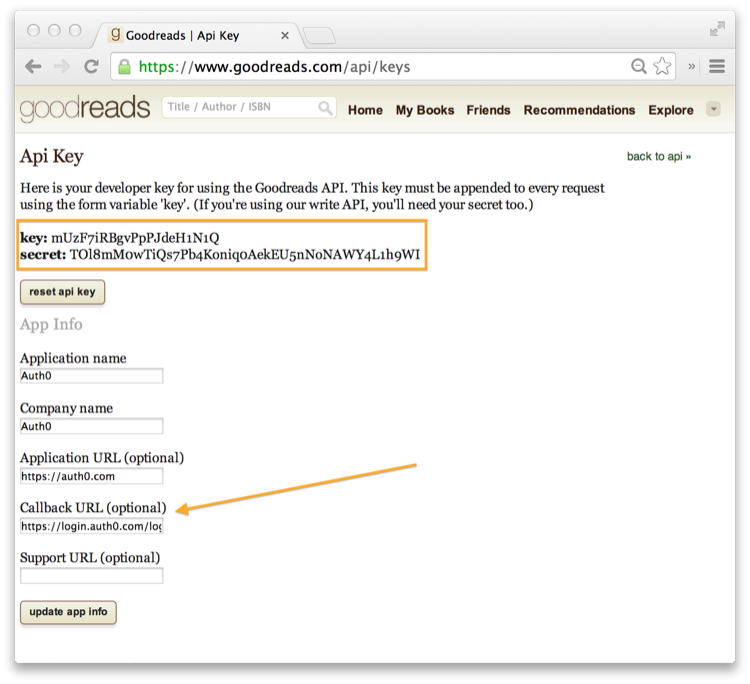
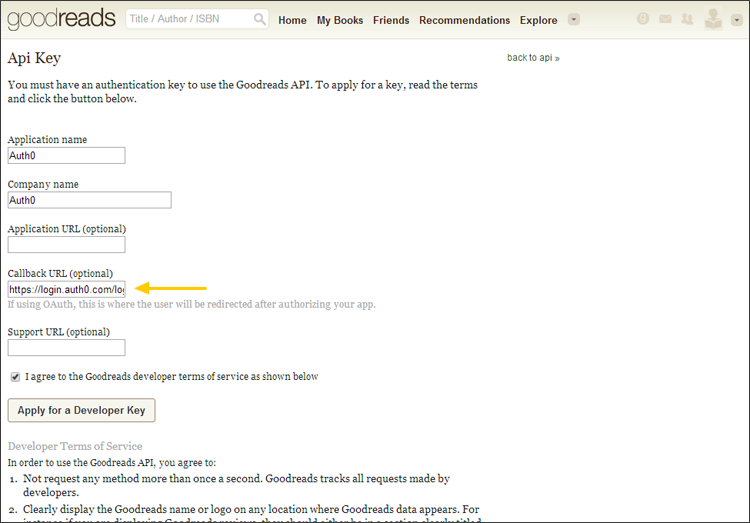
Basic Edits, new screenshot

Changed region(s): [[0.0, 0.0, 1.0, 1.0], [0.828, 0.2141, 0.92, 0.2447]]

diff --git a/articles/connections/social/goodreads.md b/articles/connections/social/goodreads.md
@@ -3,25 +3,31 @@ connection: Goodreads
 image: /media/connections/goodreads.png
 ---
 
-# Obtaining a Consumer and Secret Keys for Goodreads
+# Obtain a Consumer Keys and Consumer Secret for Goodreads
 
-## 1. Log in into Goodreads's developers site
-Log in into [Goodreads's Developer site](https://www.goodreads.com/api/v1), select __developer key__:
+To configure a Goodreads connection with Auth0, you will need to register your app on the Goodreads developers site.
+
+## 1. Apply for a developer key
+
+Log into the [Goodreads developer site](https://www.goodreads.com/api), and select *developer key*:
 
 ![](/media/articles/connections/social/goodreads/goodreads-register-1.png)
 
----
+## 2. Enter information about your app
 
-## 2. Complete information about your instance of Auth0
-
-Use this for the `Callback URL`:
+Complete the form then click **Apply for a Developer Key**. Enter this in the `Callback URL` field:
 
 	https://${account.namespace}/login/callback
 
----
-
-## 4. Get your Consumer Key and Consumer Secret
-
-Once the application is registered, enter your new `Key` and `Secret` into the connection settings in Auth0.
-
 ![](/media/articles/connections/social/goodreads/goodreads-register-2.png)
+
+## 3. Get your *Consumer Key* and *Consumer Secret*
+
+Once the application is registered, the `Key` and `Secret` for your new app will be displayed on the following page:
+
+![](/media/articles/connections/social/goodreads/goodreads-register-3.png)
+
+### 4. Copy your *Consumer Key* and *Consumer Secret*
+
+Go to your Auth0 Dashboard and select **Connections > Social**, then choose **Goodreads**. Copy the `Consumer Key` and `Consumer Secret` from the **Api Key** page of your app on Goodreads into the fields on this page on Auth0.
+
